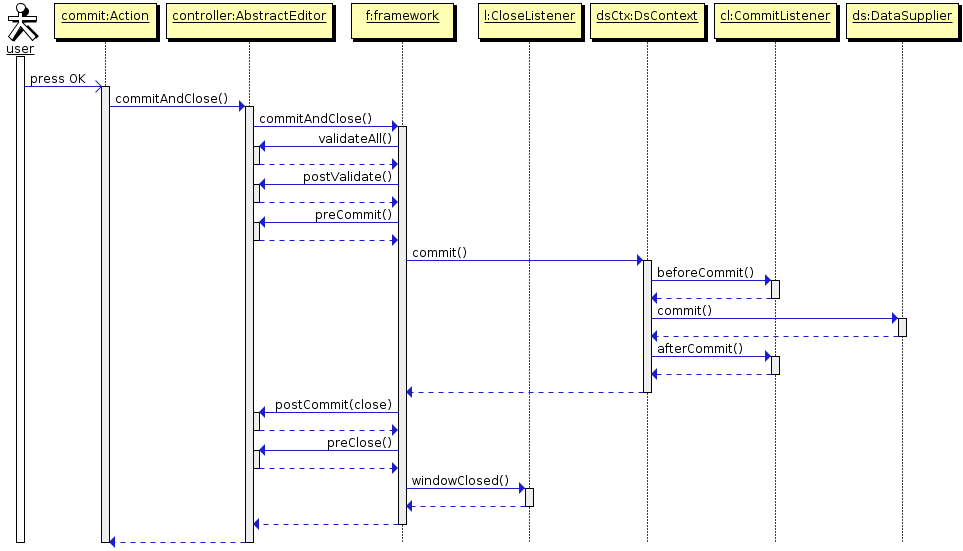
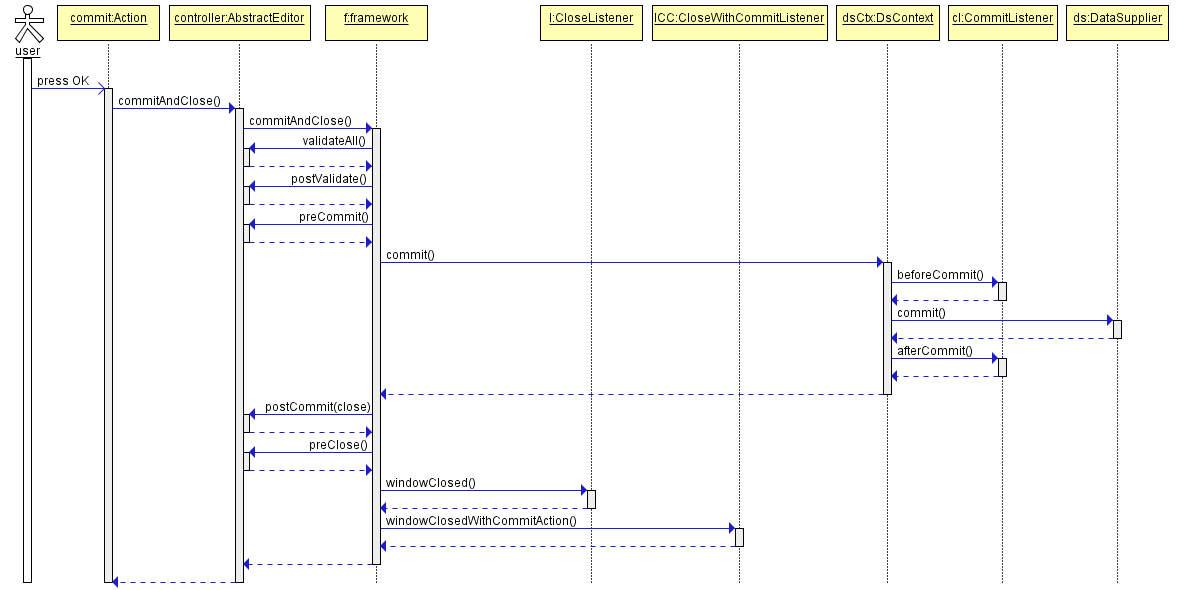
PLD-189 Describe CloseWithCommitListener

diff --git a/content/manual/source/gui/abstracteditor_7.java b/content/manual/source/gui/abstracteditor_7.java
@@ -1,0 +1,4 @@
+Window.Editor window = target.getFrame().openEditor(getWindowId(), newItem, getOpenType(), params, parentDs);
+window.addCloseWithCommitListener(() -> {
+        //logic code here
+});
